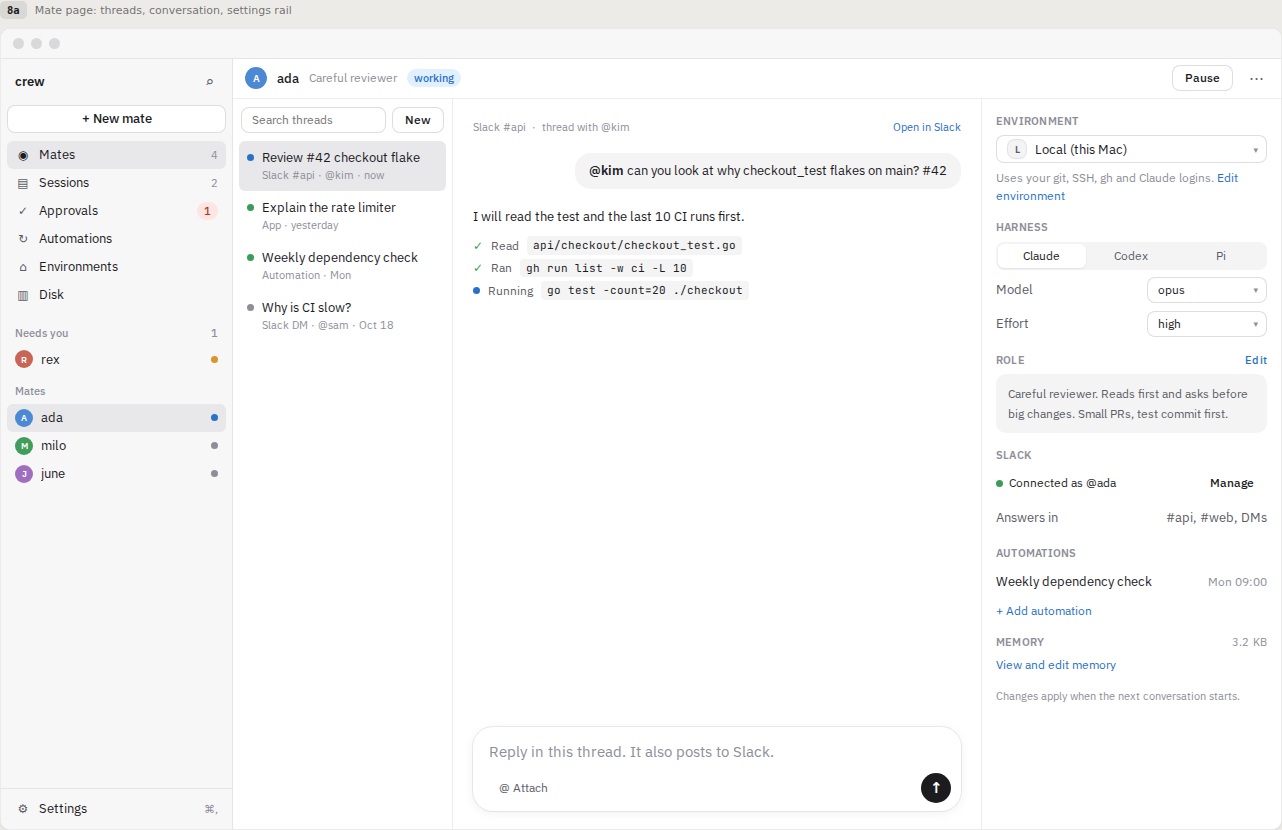
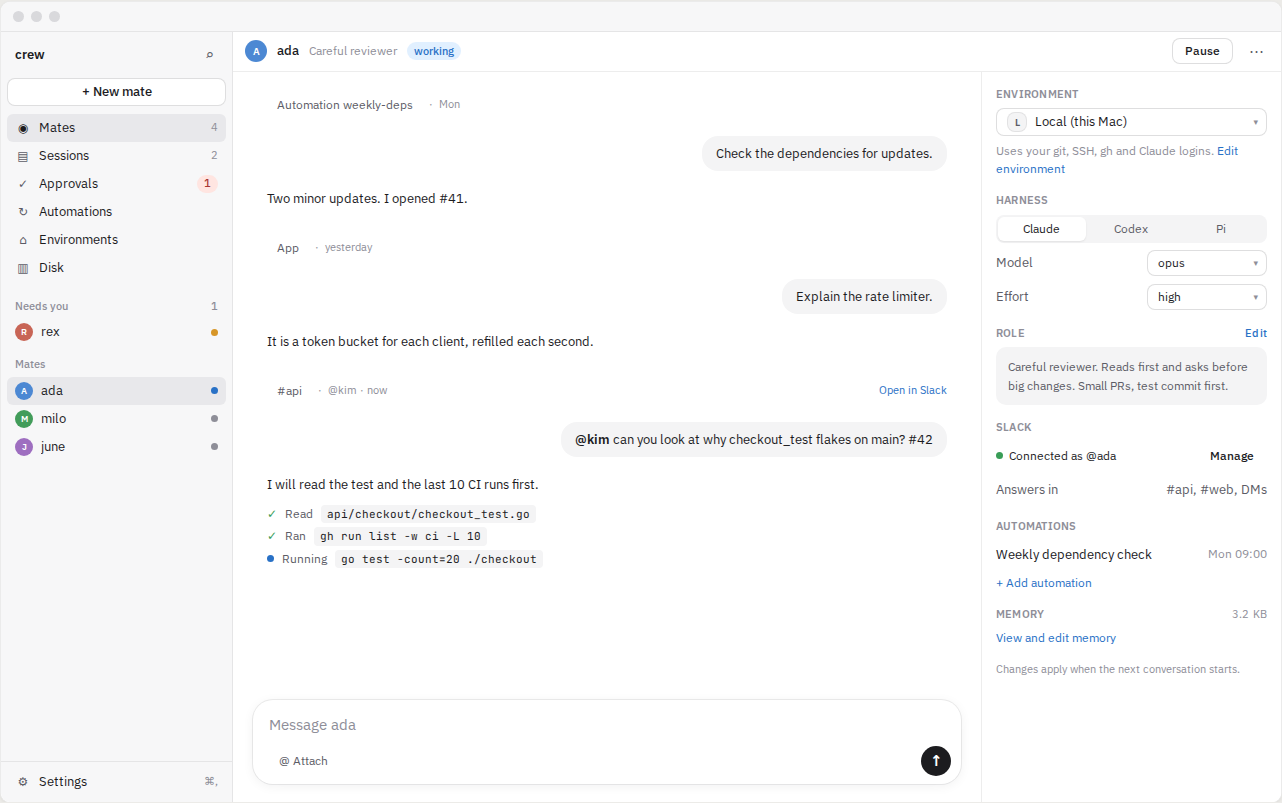
docs(design): frame 8 shows the one conversation with no threads column
Claude-Session: https://claude.ai/code/session_01XjJb7awgb7y3gbU3pd8rdu

diff --git a/docs/design/mates/8-mate-page-and-create.html b/docs/design/mates/8-mate-page-and-create.html
@@ -1,6 +1,6 @@
 <!DOCTYPE html>
 <html><head><meta charset="utf-8" /><link rel="stylesheet" href="../redesign/crew.css" /><link rel="stylesheet" href="../redesign/canvas.css" /><link rel="stylesheet" href="./mates.css" /></head>
-<body><section class="dv-turn" id="t8"><div class="dv-thd"><a class="dv-tid" href="#t8">8</a><span class="dv-tname">Mate page and New mate</span></div><p class="dv-notes"><b>Mate page</b> (changed 2026-10-23, ADR 0063): two columns. The one conversation of the mate fills the middle, with the normal composer. Each message has a source tag (App, #channel, DM or Automation). There is no threads column; the threads column below is out of date. The settings rail is at right. The ⋯ menu of the header has Start fresh (with a confirm) and the history. The rail holds the <b>Environment picker</b> (a styled Select), harness (segmented Claude / Codex / Pi, then model and effort), role, Slack, automations and memory. The rail says that changes apply at the next conversation. <b>New mate</b> is one composer: name on top, the role prompt as the text, and chips for harness, environment, repos and Slack. The environment chip opens a Menu with search and <b>+ New environment…</b>. No wizard steps; role presets are suggestion chips.</p><div class="dv-opts"><div class="dv-opt" id="8a"><div class="dv-olabel"><a class="dv-oid" href="#8a">8a</a>Mate page: threads, conversation, settings rail</div><div class="dv-card"><div class="win" data-screen-label="Mate page" style="width:1280px;height:800px"><div class="titlebar"><span class="tl"></span><span class="tl"></span><span class="tl"></span></div><div class="app"><aside class="side nav"><div class="side-head"><span class="brand">crew</span><button class="icon-btn">⌕</button></div>
+<body><section class="dv-turn" id="t8"><div class="dv-thd"><a class="dv-tid" href="#t8">8</a><span class="dv-tname">Mate page and New mate</span></div><p class="dv-notes"><b>Mate page</b> (changed 2026-10-23, ADR 0064): two columns. The one conversation of the mate fills the middle, with the normal composer. Each message has a source tag (App, #channel, DM or Automation). The settings rail is at right. The ⋯ menu of the header has Start fresh (with a confirm) and the history. The rail holds the <b>Environment picker</b> (a styled Select), harness (segmented Claude / Codex / Pi, then model and effort), role, Slack, automations and memory. The rail says that changes apply at the next conversation. <b>New mate</b> is one composer: name on top, the role prompt as the text, and chips for harness, environment, repos and Slack. The environment chip opens a Menu with search and <b>+ New environment…</b>. No wizard steps; role presets are suggestion chips.</p><div class="dv-opts"><div class="dv-opt" id="8a"><div class="dv-olabel"><a class="dv-oid" href="#8a">8a</a>Mate page: the one conversation and the settings rail</div><div class="dv-card"><div class="win" data-screen-label="Mate page" style="width:1280px;height:800px"><div class="titlebar"><span class="tl"></span><span class="tl"></span><span class="tl"></span></div><div class="app"><aside class="side nav"><div class="side-head"><span class="brand">crew</span><button class="icon-btn">⌕</button></div>
 <button class="btn newbtn">+ New mate</button>
 <div class="side-sec"><div class="row on"><span class="ico">◉</span><span class="nm">Mates</span><span class="meta">4</span></div><div class="row"><span class="ico">▤</span><span class="nm">Sessions</span><span class="meta">2</span></div><div class="row"><span class="ico">✓</span><span class="nm">Approvals</span><span class="pill bad">1</span></div><div class="row"><span class="ico">↻</span><span class="nm">Automations</span></div><div class="row"><span class="ico">⌂</span><span class="nm">Environments</span></div><div class="row"><span class="ico">▥</span><span class="nm">Disk</span></div></div>
 <div class="side-scroll"><div class="side-label"><span>Needs you</span><span>1</span></div>
@@ -11,23 +11,22 @@
 <div class="row"><span class="face f4" style="width:18px;height:18px;font-size:9px">J</span><span class="nm">june</span><span class="dot"></span></div></div>
 <div class="side-foot"><div class="row"><span class="ico">⚙</span><span class="nm">Settings</span><span class="meta">⌘,</span></div></div></aside><div class="main">
 <div class="bar"><span class="face f1" style="width:22px;height:22px;font-size:10px">A</span><span class="title">ada</span><span class="sub">Careful reviewer</span><span class="pill blue">working</span><span class="spacer"></span><button class="btn" style="height:26px;font-size:12px">Pause</button><button class="icon-btn">⋯</button></div>
-<div class="split">
-<div class="threads"><div style="padding:8px 8px 4px;display:flex;gap:6px"><input class="input" placeholder="Search threads" style="height:26px;font-size:12px" /><button class="btn" style="height:26px;font-size:12px">New</button></div>
-<div class="side-scroll">
-<div class="row on"><span class="dot run" style="margin-top:6px"></span><div class="nm" style="white-space:normal"><div>Review #42 checkout flake</div><div class="s">Slack #api · @kim · now</div></div></div>
-<div class="row"><span class="dot ok" style="margin-top:6px"></span><div class="nm" style="white-space:normal"><div>Explain the rate limiter</div><div class="s">App · yesterday</div></div></div>
-<div class="row"><span class="dot ok" style="margin-top:6px"></span><div class="nm" style="white-space:normal"><div>Weekly dependency check</div><div class="s">Automation · Mon</div></div></div>
-<div class="row"><span class="dot" style="margin-top:6px"></span><div class="nm" style="white-space:normal"><div>Why is CI slow?</div><div class="s">Slack DM · @sam · Oct 18</div></div></div>
-</div></div>
+<div class="split" style="grid-template-columns:minmax(0,1fr) 300px">
 <div class="conv"><div class="chat"><div class="thread">
-<div class="src"><span>Slack #api</span><span>·</span><span>thread with @kim</span><span class="spacer"></span><a href="#">Open in Slack</a></div>
+<div class="src"><span class="chip ghost">Automation weekly-deps</span><span>·</span><span>Mon</span></div>
+<div class="msg-user">Check the dependencies for updates.</div>
+<div class="msg-agent"><p>Two minor updates. I opened #41.</p></div>
+<div class="src"><span class="chip ghost">App</span><span>·</span><span>yesterday</span></div>
+<div class="msg-user">Explain the rate limiter.</div>
+<div class="msg-agent"><p>It is a token bucket for each client, refilled each second.</p></div>
+<div class="src"><span class="chip ghost">#api</span><span>·</span><span>@kim · now</span><span class="spacer"></span><a href="#">Open in Slack</a></div>
 <div class="msg-user"><b>@kim</b> can you look at why checkout_test flakes on main? #42</div>
 <div class="msg-agent"><p>I will read the test and the last 10 CI runs first.</p>
 <div class="tool"><span class="ok">✓</span> Read <code>api/checkout/checkout_test.go</code></div>
 <div class="tool"><span class="ok">✓</span> Ran <code>gh run list -w ci -L 10</code></div>
 <div class="tool"><span class="dot run"></span> Running <code>go test -count=20 ./checkout</code></div></div>
 </div></div>
-<div class="dock"><div class="composer"><textarea placeholder="Reply in this thread. It also posts to Slack." rows="1"></textarea><div class="composer-foot"><span class="chip ghost">@ Attach</span><span class="spacer"></span><button class="send">↑</button></div></div></div></div>
+<div class="dock"><div class="composer"><textarea placeholder="Message ada" rows="1"></textarea><div class="composer-foot"><span class="chip ghost">@ Attach</span><span class="spacer"></span><button class="send">↑</button></div></div></div></div>
 <aside class="ms">
 <div class="kv"><h4>ENVIRONMENT</h4>
 <button class="select" style="width:100%"><span style="display:flex;align-items:center;gap:8px"><span class="eicon" style="width:20px;height:20px;font-size:10px">L</span>Local (this Mac)</span><span class="chev">▾</span></button>
@@ -51,7 +50,7 @@
 <div class="side-sec"><div class="row on"><span class="ico">◉</span><span class="nm">Mates</span><span class="meta">4</span></div><div class="row"><span class="ico">▤</span><span class="nm">Sessions</span><span class="meta">2</span></div><div class="row"><span class="ico">✓</span><span class="nm">Approvals</span><span class="pill bad">1</span></div><div class="row"><span class="ico">↻</span><span class="nm">Automations</span></div><div class="row"><span class="ico">⌂</span><span class="nm">Environments</span></div><div class="row"><span class="ico">▥</span><span class="nm">Disk</span></div></div>
 <div class="side-scroll"></div>
 <div class="side-foot"><div class="row"><span class="ico">⚙</span><span class="nm">Settings</span><span class="meta">⌘,</span></div></div></aside><div class="main" style="position:relative">
-<div class="create"><h1>New mate</h1><p class="lead">A mate is a long-lived agent with a name, a role and its own threads.</p>
+<div class="create"><h1>New mate</h1><p class="lead">A mate is a long-lived agent with a name, a role and one conversation.</p>
 <div class="composer" style="width:100%;max-width:640px">
 <div class="namel"><span class="face f1">N</span><input value="nova" /><span class="pill ok">name is free</span></div>
 <textarea rows="3" style="font-size:var(--fs-md)">You are a careful reviewer for the api and web repos. Read first, run the tests, and ask before you change a migration.</textarea>
@@ -68,7 +67,7 @@
 <div class="item hi"><span class="ck">✓</span><span class="eicon" style="width:18px;height:18px;font-size:9px">L</span>Local (this Mac)<span class="k">your logins</span></div>
 <div class="item"><span class="ck"></span><span class="eicon c" style="width:18px;height:18px;font-size:9px">W</span>work<span class="k">2 mates</span></div>
 <div class="item"><span class="ck"></span><span class="eicon c" style="width:18px;height:18px;font-size:9px">O</span>oncall<span class="k">1 mate</span></div>
-<div class="menu-sep"></div><div class="item">+ New environment…</div></div></div></div></div></div></div><div class="dv-opt" id="8c"><div class="dv-olabel"><a class="dv-oid" href="#8c">8c</a>Mate conversation, phone (no thread chips since ADR 0063; ⓘ opens the settings as a sheet)</div><div class="dv-card"><div class="phone" data-screen-label="Mate phone"><div class="status"></div><div class="ptop"><span class="muted" style="font-size:20px">‹</span><span class="face f1">A</span><div style="flex:1;min-width:0"><div style="font-weight:600">ada</div><div class="muted" style="font-size:11px">Local · Claude · working</div></div><button class="icon-btn">ⓘ</button></div>
+<div class="menu-sep"></div><div class="item">+ New environment…</div></div></div></div></div></div></div><div class="dv-opt" id="8c"><div class="dv-olabel"><a class="dv-oid" href="#8c">8c</a>Mate conversation, phone (no thread chips since ADR 0064; ⓘ opens the settings as a sheet)</div><div class="dv-card"><div class="phone" data-screen-label="Mate phone"><div class="status"></div><div class="ptop"><span class="muted" style="font-size:20px">‹</span><span class="face f1">A</span><div style="flex:1;min-width:0"><div style="font-weight:600">ada</div><div class="muted" style="font-size:11px">Local · Claude · working</div></div><button class="icon-btn">ⓘ</button></div>
 <div class="pbody" style="padding:0"><div style="display:flex;gap:6px;padding:8px 16px;overflow:hidden;border-bottom:1px solid var(--line)"><span class="chip" style="background:var(--bg-active);color:var(--ink)">#42 checkout flake</span><span class="chip">Rate limiter</span><span class="chip">Deps check</span></div>
 <div class="thread" style="padding:14px 16px">
 <div class="msg-user"><b>@kim</b> can you look at why checkout_test flakes on main? #42</div>

diff --git a/docs/design/mates/README.md b/docs/design/mates/README.md
@@ -34,7 +34,7 @@ Each frame also has its own PNG (`7a.png`, `8b.png` and so on). The HTML files o
 - "New key…" shows the new public key and a warning. The old key stays active until the user confirms that the new key is on GitHub (9d).
 - Local sessions always use this Mac. The Sessions screen has no environment picker.
 - A mate has one conversation (ADR [0064](../../adr/0064-one-conversation-per-mate.md)). Slack channel mentions, Slack DMs, automation runs and the app composer all go into it. Each message has a source tag: App, #channel, DM or Automation. The answer to a Slack message also goes back to its Slack thread or DM.
-- Changed on 2026-10-23, after the frames: the mate page has no threads column (8a), and the phone has no thread chips (8c). The conversation fills the middle. The settings rail does not change. The PNG files still show the old threads; this text is correct.
+- Changed on 2026-10-23, after the frames: the mate page has no threads column (8a), and the phone has no thread chips (8c). The conversation fills the middle. The settings rail does not change. The HTML and the PNG files show this layout.
 - "Start fresh" is in the ⋯ menu of the mate header, with a confirm. It clears the context and starts a new conversation. The old conversation stays as history: the ⋯ menu lists it, and it opens with no composer.
 - On the phone, the ⓘ button of a mate opens its settings as a sheet (8d).
 - A change to a mate or to an environment applies when the next conversation starts. The UI tells this.
